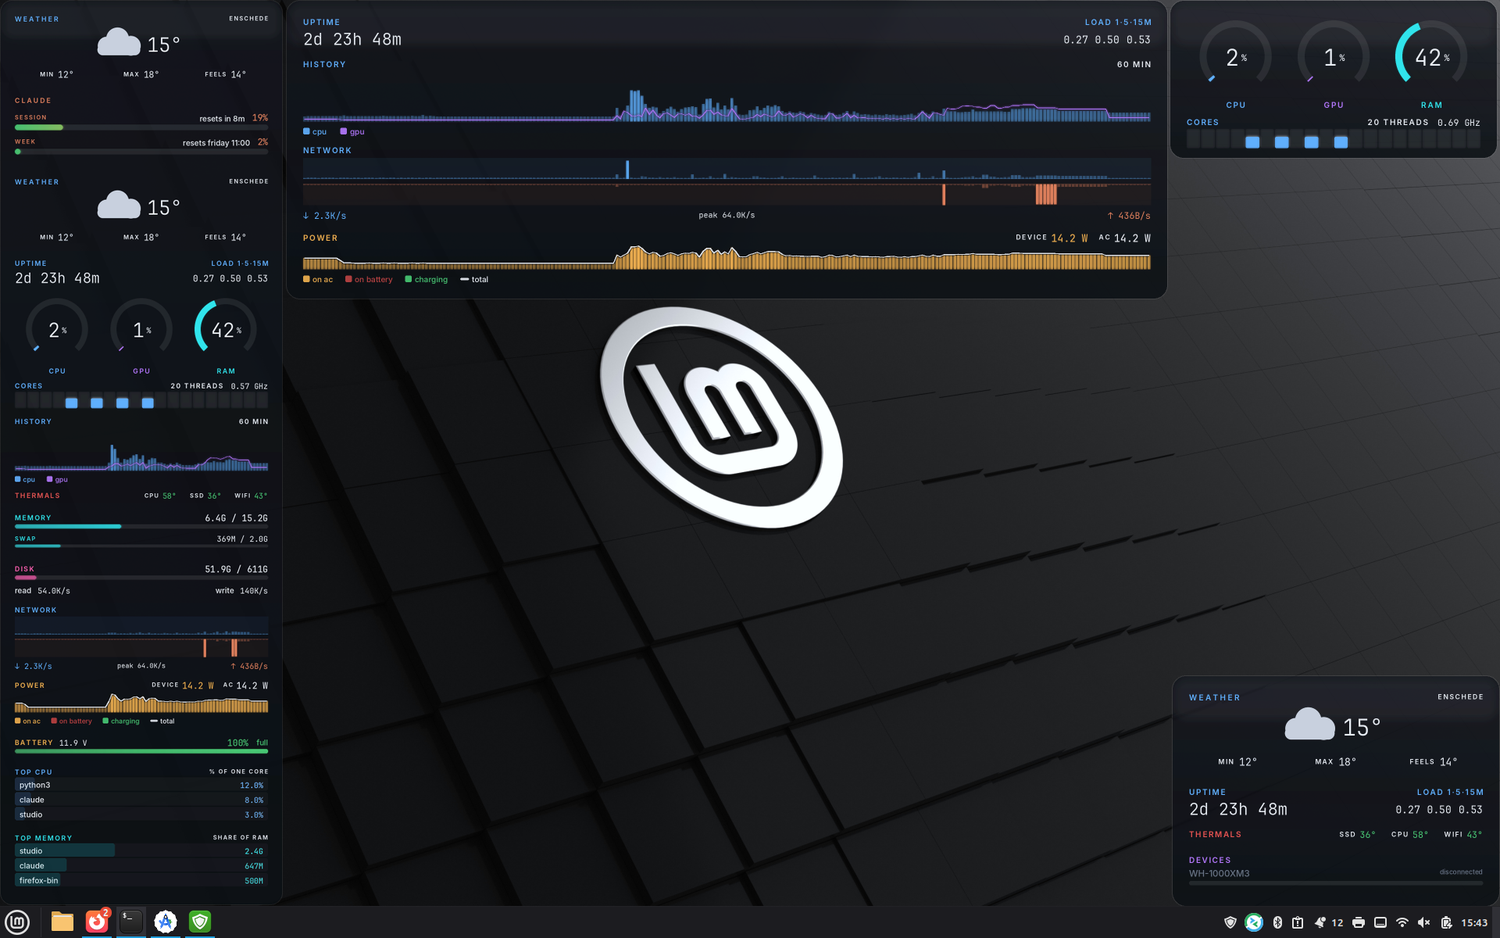
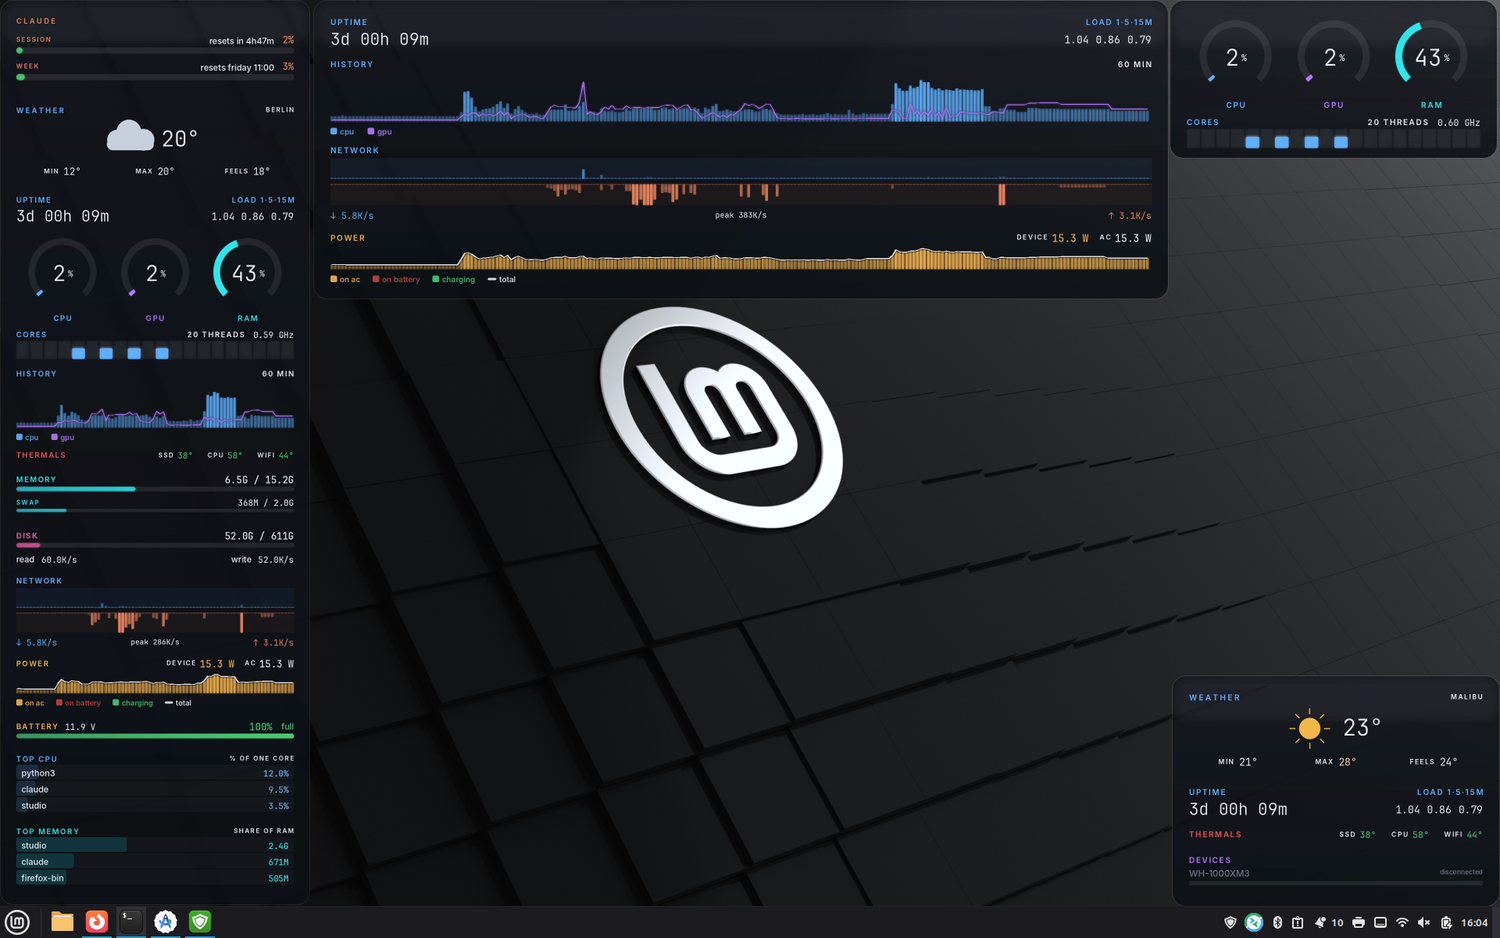
README: new modular screenshot showing per-panel weather (two cities)
Replace the four-panel showcase image with a fresh one where two panels watch
two different cities (Berlin on the left, Malibu bottom-right), and update the
caption to point out the per-panel weather and the disconnected headset.

Claude-Session: https://claude.ai/code/session_01NkgKZKjjYkkKx9EioTQoez

diff --git a/README.md b/README.md
@@ -38,15 +38,16 @@ device list — so you can build the exact layout you want. **Add** a fresh pane
 (all sections on) or **Duplicate** the current one, drag each wherever you like,
 and switch sections off until it shows just what you need.
 
-<img src="docs/panels-modular.png" alt="A Linux Mint desktop with four HUD panels at once: a tall full panel down the left, a wide graphs-only panel across the top, a compact gauges panel top-right, and a small weather/thermals panel bottom-right showing a disconnected headset.">
+<img src="docs/panels-modular.png" alt="A Linux Mint desktop with four HUD panels at once: a tall full panel down the left showing Berlin weather, a wide graphs-only panel across the top, a compact gauges panel top-right, and a small panel bottom-right showing Malibu weather and a disconnected headset.">
 
 The four panels above are one setup: a **full readout** down the left, a **wide
 strip** across the top with just the history, network and power graphs stretched
 out, a **compact gauges** panel top-right, and a **small glance** panel
-bottom-right with the weather, thermals and the headset battery — here shown
-*disconnected*. Each was placed by hand and sized on its own: the width is
-yours to set, the height follows the content, and dragging a panel taller simply
-spreads its sections apart.
+bottom-right. Each was placed by hand and sized on its own — the width is yours,
+the height follows the content. Weather is per panel too: the left one watches
+**Berlin**, the bottom-right **Malibu**, so you can keep an eye on two cities at
+once (the headset on that panel is currently *disconnected* — a device you've
+added stays put and comes back on its own when it reconnects).
 
 ## Installing
 
